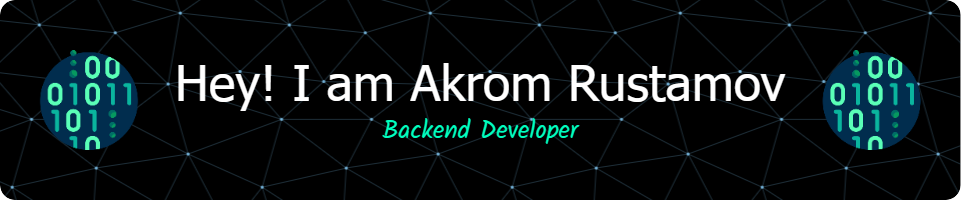
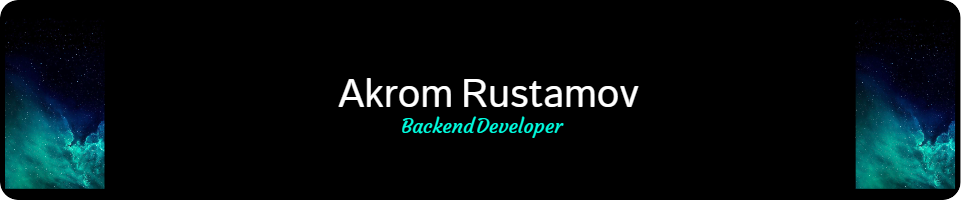
custumize profile

diff --git a/README.md b/README.md
@@ -2,72 +2,91 @@
     <img src="images/github-header-image.png" alt="logo" style="border-radius: 15px;" width="97%" height="40%">
 </div>
 
-
-<div align="center">
-   <img width="97%" src="https://github-readme-activity-graph.vercel.app/graph?username=RustamovAkrom&theme=react-dark&hide_border=true&area=true" />
-</div> 
-
-
-<!--  ./STAT -->
-<div align="center">  
-  <img width="48%" height="auto" src="https://github-readme-stats.vercel.app/api?username=RustamovAkrom&show_icons=true&count_private=true&hide_border=true&title_color=00bfbf&icon_color=00bfbf&text_color=c9d1d9&bg_color=0d1117" alt="AkromRustamov github stats" /> 
-  <img width="48%" height="auto" src="https://github-readme-stats.vercel.app/api/top-langs/?username=RustamovAkrom&layout=compact&hide_border=true&title_color=00bfbf&text_color=00bfbf&bg_color=0d1117" />
-
-</div>
-
-<!-- ./STATS  -->
-<div align="center"><img height="auto" width="97%" src="https://github-readme-streak-stats.herokuapp.com/?user=RustamovAkrom&theme=black-ice&hide_border=true&stroke=0000&background=0D1117&ring=00bfbf&fire=00bfbf&currStreakLabel=00bfbf" alt="RustamovAkrom" /></div>
+[![Ashutosh's github activity graph](https://github-readme-activity-graph.vercel.app/graph?username=RustamovAkrom&bg_color=000000&color=ffffff&line=00ffcc&point=08303a&area=true&hide_border=true)](https://github.com/ashutosh00710/github-readme-activity-graph)
 
 
 
-<center>
-<p><h2><b>Languages and tools I work with:</b></h2></p>
-</center>
+<!-- Social icons
+<p align="left">
+  <a href="https://t.me/RustamovAkrom" target="_blank">
+    <img src="https://img.shields.io/badge/Telegram-00ffcc?style=for-the-badge&logo=telegram&logoColor=white"/>
+  </a>
+  <a href="mailto:rustamov.akrom@gmail.com" target="_blank">
+    <img src="https://img.shields.io/badge/Email-00ffcc?style=for-the-badge&logo=gmail&logoColor=white"/>
+  </a>
+  <a href="https://www.linkedin.com/in/rustamovakrom/" target="_blank">
+    <img src="https://img.shields.io/badge/LinkedIn-00ffcc?style=for-the-badge&logo=linkedin&logoColor=white"/>
+  </a>
+  <a href="https://github.com/RustamovAkrom" target="_blank">
+    <img src="https://img.shields.io/badge/GitHub-00ffcc?style=for-the-badge&logo=github&logoColor=white"/>
+  </a>
+</p> -->
 
-<p align="center"><a target="_blank" href="https://raw.githubusercontent.com/devicons/devicon/master/icons/python/python-original.svg" style="display: inline-block;"><img src="https://raw.githubusercontent.com/devicons/devicon/master/icons/python/python-original.svg" alt="python" width="42" height="42"></a>
-<a target="_blank" href="https://raw.githubusercontent.com/devicons/devicon/master/icons/react/react-original-wordmark.svg" style="display: inline-block;"><img src="https://raw.githubusercontent.com/devicons/devicon/master/icons/react/react-original-wordmark.svg" alt="react" width="42" height="42"></a>
-<a target="_blank" href="https://www.vectorlogo.zone/logos/graphql/graphql-icon.svg" style="display: inline-block;"><img src="https://www.vectorlogo.zone/logos/graphql/graphql-icon.svg" alt="graphql" width="42" height="42"></a>
-<a target="_blank" href="https://www.vectorlogo.zone/logos/rabbitmq/rabbitmq-icon.svg" style="display: inline-block;"><img src="https://www.vectorlogo.zone/logos/rabbitmq/rabbitmq-icon.svg" alt="rabbitMQ" width="42" height="42"></a>
-<a target="_blank" href="https://raw.githubusercontent.com/devicons/devicon/master/icons/nginx/nginx-original.svg" style="display: inline-block;"><img src="https://raw.githubusercontent.com/devicons/devicon/master/icons/nginx/nginx-original.svg" alt="nginx" width="42" height="42"></a>
-<a target="_blank" href="https://www.vectorlogo.zone/logos/opencv/opencv-icon.svg" style="display: inline-block;"><img src="https://www.vectorlogo.zone/logos/opencv/opencv-icon.svg" alt="opencv" width="42" height="42"></a>
-<a target="_blank" href="https://raw.githubusercontent.com/devicons/devicon/master/icons/mysql/mysql-original-wordmark.svg" style="display: inline-block;"><img src="https://raw.githubusercontent.com/devicons/devicon/master/icons/mysql/mysql-original-wordmark.svg" alt="mysql" width="42" height="42"></a>
-<a target="_blank" href="https://raw.githubusercontent.com/devicons/devicon/master/icons/postgresql/postgresql-original-wordmark.svg" style="display: inline-block;"><img src="https://raw.githubusercontent.com/devicons/devicon/master/icons/postgresql/postgresql-original-wordmark.svg" alt="postgresql" width="42" height="42"></a>
-<a target="_blank" href="https://raw.githubusercontent.com/devicons/devicon/master/icons/redis/redis-original-wordmark.svg" style="display: inline-block;"><img src="https://raw.githubusercontent.com/devicons/devicon/master/icons/redis/redis-original-wordmark.svg" alt="redis" width="42" height="42"></a>
-<a target="_blank" href="https://www.vectorlogo.zone/logos/sqlite/sqlite-icon.svg" style="display: inline-block;"><img src="https://www.vectorlogo.zone/logos/sqlite/sqlite-icon.svg" alt="sqlite" width="42" height="42"></a>
-<a target="_blank" href="https://raw.githubusercontent.com/devicons/devicon/master/icons/docker/docker-original-wordmark.svg" style="display: inline-block;"><img src="https://raw.githubusercontent.com/devicons/devicon/master/icons/docker/docker-original-wordmark.svg" alt="docker" width="42" height="42"></a>
-<a target="_blank" href="https://www.vectorlogo.zone/logos/jenkins/jenkins-icon.svg" style="display: inline-block;"><img src="https://www.vectorlogo.zone/logos/jenkins/jenkins-icon.svg" alt="jenkins" width="42" height="42"></a>
-<a target="_blank" href="https://www.vectorlogo.zone/logos/gnu_bash/gnu_bash-icon.svg" style="display: inline-block;"><img src="https://www.vectorlogo.zone/logos/gnu_bash/gnu_bash-icon.svg" alt="bash" width="42" height="42"></a>
-<a target="_blank" href="https://www.vectorlogo.zone/logos/heroku/heroku-icon.svg" style="display: inline-block;"><img src="https://www.vectorlogo.zone/logos/heroku/heroku-icon.svg" alt="heroku" width="42" height="42"></a>
-<a target="_blank" href="https://cdn.worldvectorlogo.com/logos/django.svg" style="display: inline-block;"><img src="https://cdn.worldvectorlogo.com/logos/django.svg" alt="django" width="42" height="42"></a>
-</p>
-</center>
-
-<center>
-    <p><h2><b>Social Contacts:</b></h2></p>
-</center>
-
+<!-- Unified dark/cyan style for all widgets -->
+<!-- Main wide streak stats -->
 <p align="center">
-    <a href="https://t.me/Akrom_Rustamov" target="_blank" style="margin: 0 10px;">
-        <img src="https://img.shields.io/badge/Telegram-%23007276.svg?style=for-the-badge&logo=telegram&logoColor=white" alt="social" />
-    </a>
-    <a href="https://instagram.com/rustamovakromjon327" target="_blank" style="margin: 0 10px;">
-        <img src="https://img.shields.io/badge/Instagram-%23E4405F.svg?style=for-the-badge&logo=instagram&logoColor=white" alt="social" />
-    </a>
-    <a href="https://www.linkedin.com/in/akrom-rustamov-255b372b7/" target="_blank" style="margin: 0 10px;">
-        <img src="https://img.shields.io/badge/Linkedin-%231DA1F7.svg?style=for-the-badge&logo=linkedin&logoColor=white" alt="social" />
-    </a>
-    <a href="https://facebook.com/profile.php?id=61560959857770" target="_blank" style="margin: 0 10px;">
-        <img src="https://img.shields.io/badge/Facebook-%231877F2.svg?style=for-the-badge&logo=facebook&logoColor=white" alt="social" />
-    </a>
-    <a href="https://twitter.com/AkromDev01" target="_blank" style="margin: 0 10px;">
-        <img src="https://img.shields.io/badge/Twitter-%231DA1F2.svg?style=for-the-badge&logo=twitter&logoColor=white" alt="social" />
-    </a>
+  <a href="https://git.io/streak-stats">
+    <img src="https://github-readme-streak-stats.herokuapp.com/?user=RustamovAkrom&theme=dark&background=000000&ring=00ffcc&fire=00ffcc&currStreakLabel=ffffff&sideNums=ffffff&sideLabels=00ffcc&dates=ffffff" alt="GitHub Streak" width="98%"/>
+  </a>
 </p>
 
+<!-- Two stats side by side below -->
+<p align="center">
+  <a href="https://github.com/anuraghazra/github-readme-stats">
+    <img src="https://github-readme-stats.vercel.app/api?username=RustamovAkrom&show_icons=true&theme=dark&icon_color=00ffcc&title_color=00ffcc&text_color=ffffff&bg_color=000000&border_radius=10" alt="GitHub Stats" height="180"/>
+  </a>
+  <a href="https://github.com/anuraghazra/github-readme-stats">
+    <img src="https://github-readme-stats.vercel.app/api/top-langs/?username=RustamovAkrom&layout=compact&theme=dark&title_color=00ffcc&text_color=ffffff&bg_color=000000&border_radius=10" alt="Top Languages" height="180"/>
+  </a>
+<!-- My Skills -->
+<h2 align="center">🛠 MY SKILLS</h2>
+<div align="center">
+<img src="https://img.shields.io/badge/Python-000000?style=for-the-badge&logo=python&logoColor=00ffcc"/>
+<img src="https://img.shields.io/badge/Django-000000?style=for-the-badge&logo=django&logoColor=00ffcc"/>
+<img src="https://img.shields.io/badge/PostgreSQL-000000?style=for-the-badge&logo=postgresql&logoColor=00ffcc"/>
+<img src="https://img.shields.io/badge/Linux-000000?style=for-the-badge&logo=linux&logoColor=00ffcc"/>
+<img src="https://img.shields.io/badge/Nginx-000000?style=for-the-badge&logo=nginx&logoColor=00ffcc"/>
+<img src="https://img.shields.io/badge/GraphQL-000000?style=for-the-badge&logo=graphql&logoColor=00ffcc"/>
+<img src="https://img.shields.io/badge/Docker-000000?style=for-the-badge&logo=docker&logoColor=00ffcc"/>
+<img src="https://img.shields.io/badge/RabbitMQ-000000?style=for-the-badge&logo=rabbitmq&logoColor=00ffcc"/>
+<img src="https://img.shields.io/badge/Redis-000000?style=for-the-badge&logo=redis&logoColor=00ffcc"/>
+<img src="https://img.shields.io/badge/HTML5-000000?style=for-the-badge&logo=html5&logoColor=00ffcc"/>
+<img src="https://img.shields.io/badge/CSS3-000000?style=for-the-badge&logo=css3&logoColor=00ffcc"/>
+<img src="https://img.shields.io/badge/JavaScript-000000?style=for-the-badge&logo=javascript&logoColor=00ffcc"/>
+<img src="https://img.shields.io/badge/React-000000?style=for-the-badge&logo=react&logoColor=00ffcc"/>
+  <img src="https://img.shields.io/badge/Rust-000000?style=for-the-badge&logo=rust&logoColor=00ffcc"/>
+  <img src="https://img.shields.io/badge/JavaScript-000000?style=for-the-badge&logo=javascript&logoColor=00ffcc"/>
+  <img src="https://img.shields.io/badge/TypeScript-000000?style=for-the-badge&logo=typescript&logoColor=00ffcc"/>
+  <img src="https://img.shields.io/badge/React-000000?style=for-the-badge&logo=react&logoColor=00ffcc"/>
+  <img src="https://img.shields.io/badge/Node.js-000000?style=for-the-badge&logo=node.js&logoColor=00ffcc"/>
+  <img src="https://img.shields.io/badge/Python-000000?style=for-the-badge&logo=python&logoColor=00ffcc"/>
+  <img src="https://img.shields.io/badge/PostgreSQL-000000?style=for-the-badge&logo=postgresql&logoColor=00ffcc"/>
+  <img src="https://img.shields.io/badge/Docker-000000?style=for-the-badge&logo=docker&logoColor=00ffcc"/>
+  <img src="https://img.shields.io/badge/Linux-000000?style=for-the-badge&logo=linux&logoColor=00ffcc"/>
+</p>
+</dev>
+
+<h2 align="center">🌐 SOCIAL MEDIA</h2>
+<p align="center">
+  <a href="https://t.me/Akrom_Rustamov" target="_blank">
+    <img src="https://img.shields.io/badge/Telegram-000000?style=for-the-badge&logo=telegram&logoColor=00ffcc" alt="Telegram" />
+  </a>
+  <a href="https://instagram.com/rustamovakromjon327" target="_blank">
+    <img src="https://img.shields.io/badge/Instagram-000000?style=for-the-badge&logo=instagram&logoColor=00ffcc" alt="Instagram" />
+  </a>
+  <a href="https://www.linkedin.com/in/akrom-rustamov-255b372b7/" target="_blank">
+    <img src="https://img.shields.io/badge/LinkedIn-000000?style=for-the-badge&logo=linkedin&logoColor=00ffcc" alt="LinkedIn" />
+  </a>
+  <a href="https://facebook.com/profile.php?id=61560959857770" target="_blank">
+    <img src="https://img.shields.io/badge/Facebook-000000?style=for-the-badge&logo=facebook&logoColor=00ffcc" alt="Facebook" />
+  </a>
+  <a href="https://twitter.com/AkromDev01" target="_blank">
+    <img src="https://img.shields.io/badge/Twitter-000000?style=for-the-badge&logo=twitter&logoColor=00ffcc" alt="Twitter" />
+  </a>
+</p>
 
 <div align="center">
   <br><p align="center"><b>Visitors Count</b></p>  
   <p align="center"><img align="center" src="https://profile-counter.glitch.me/RustamovAkrom/count.svg" /></p> 
   <br>
 </div>
-
